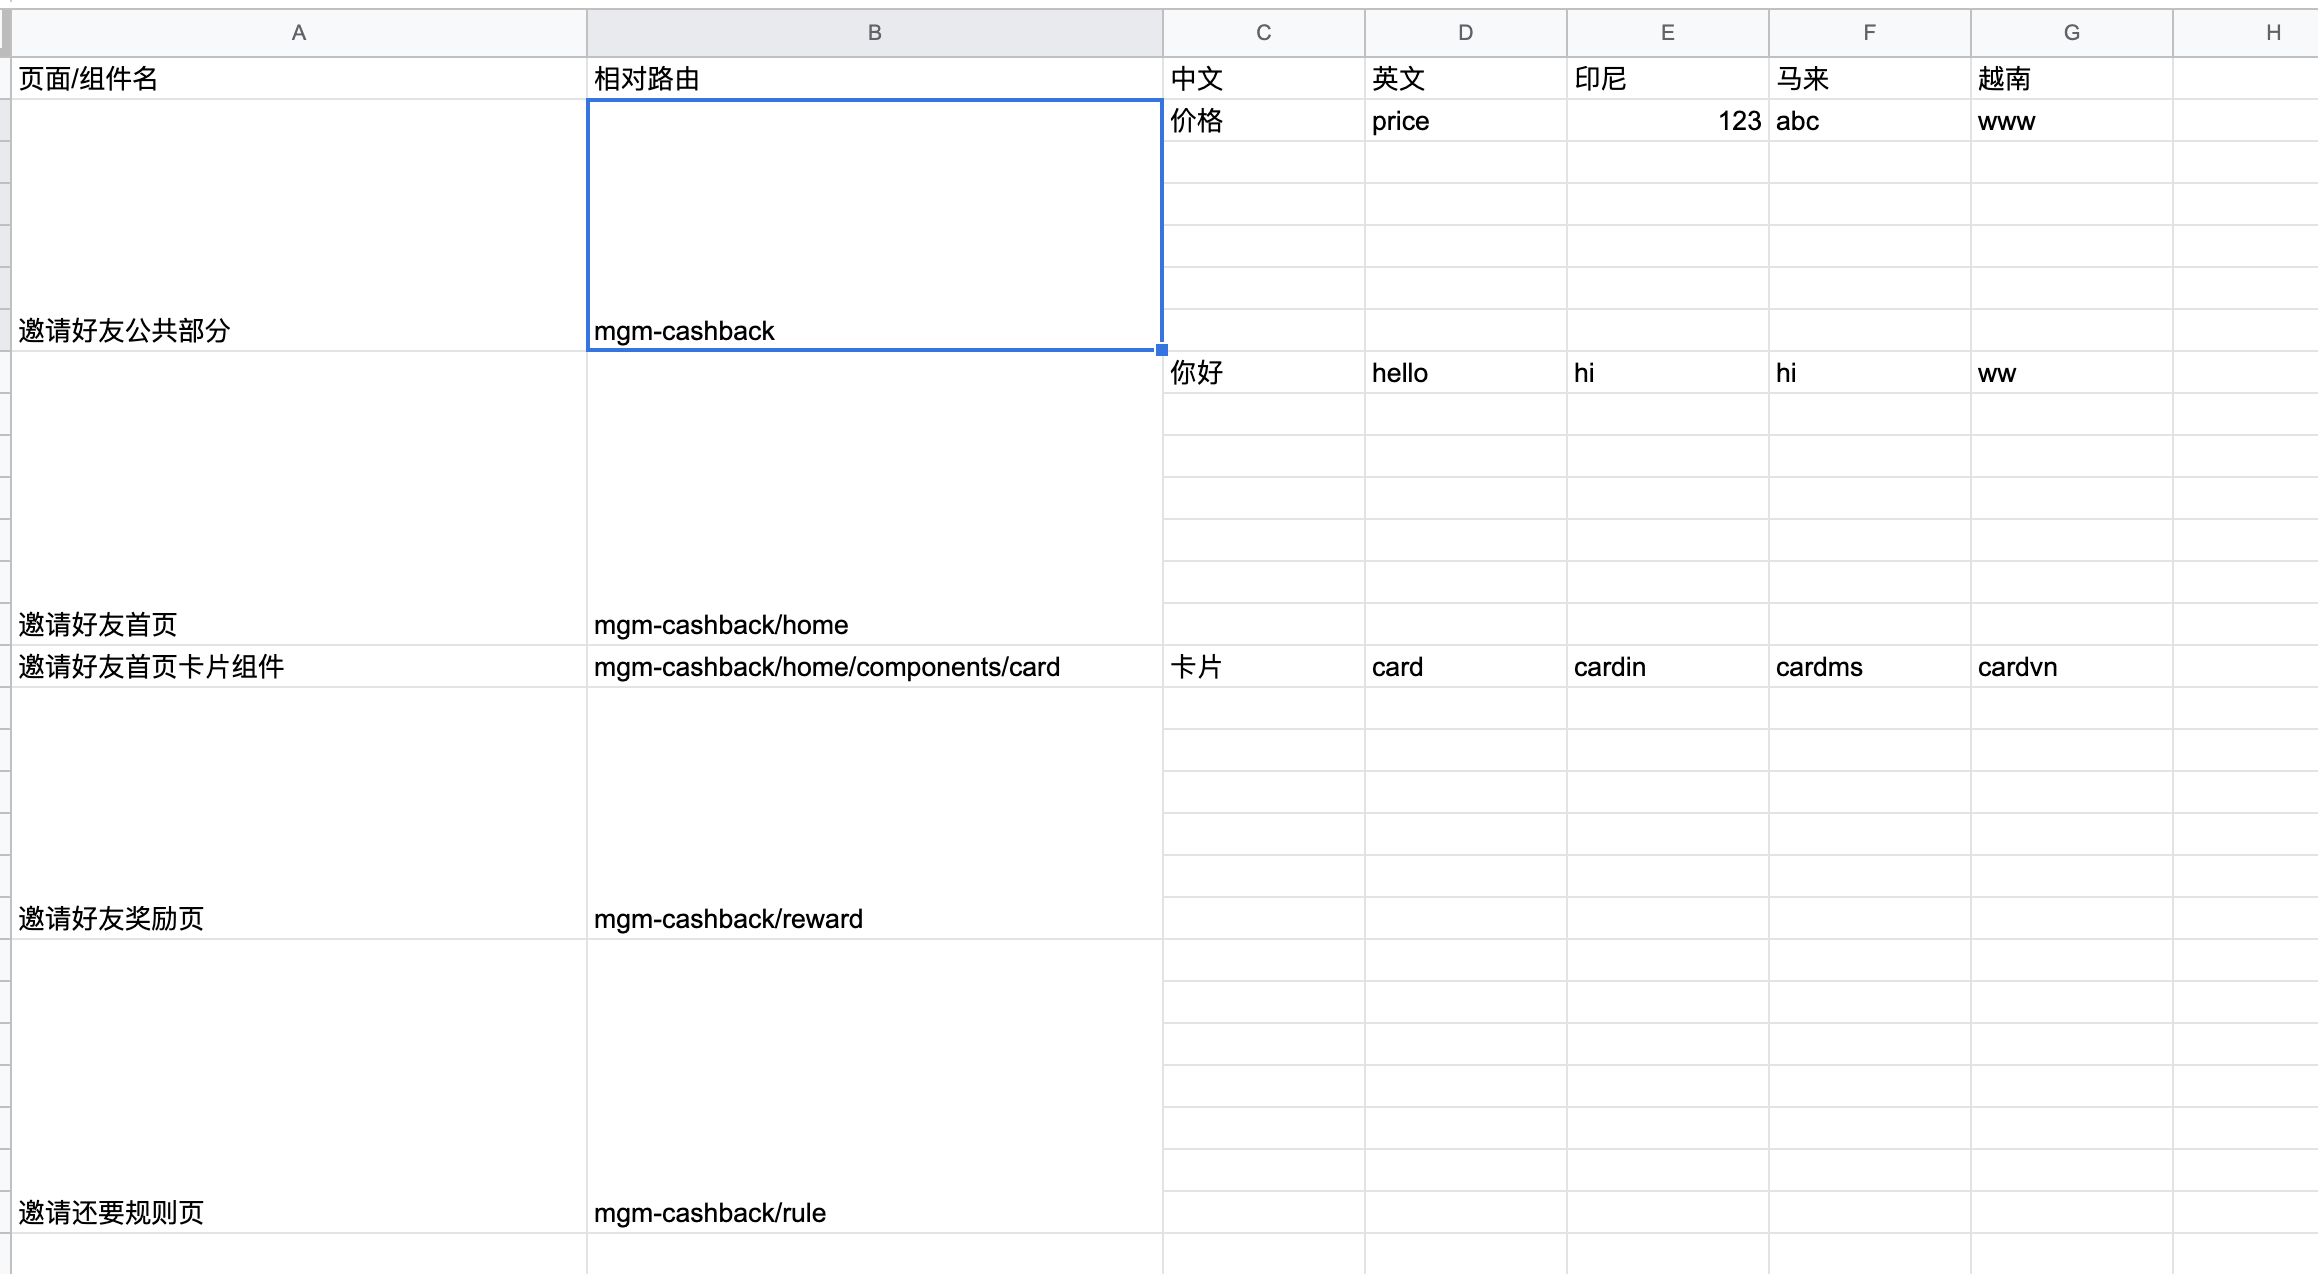
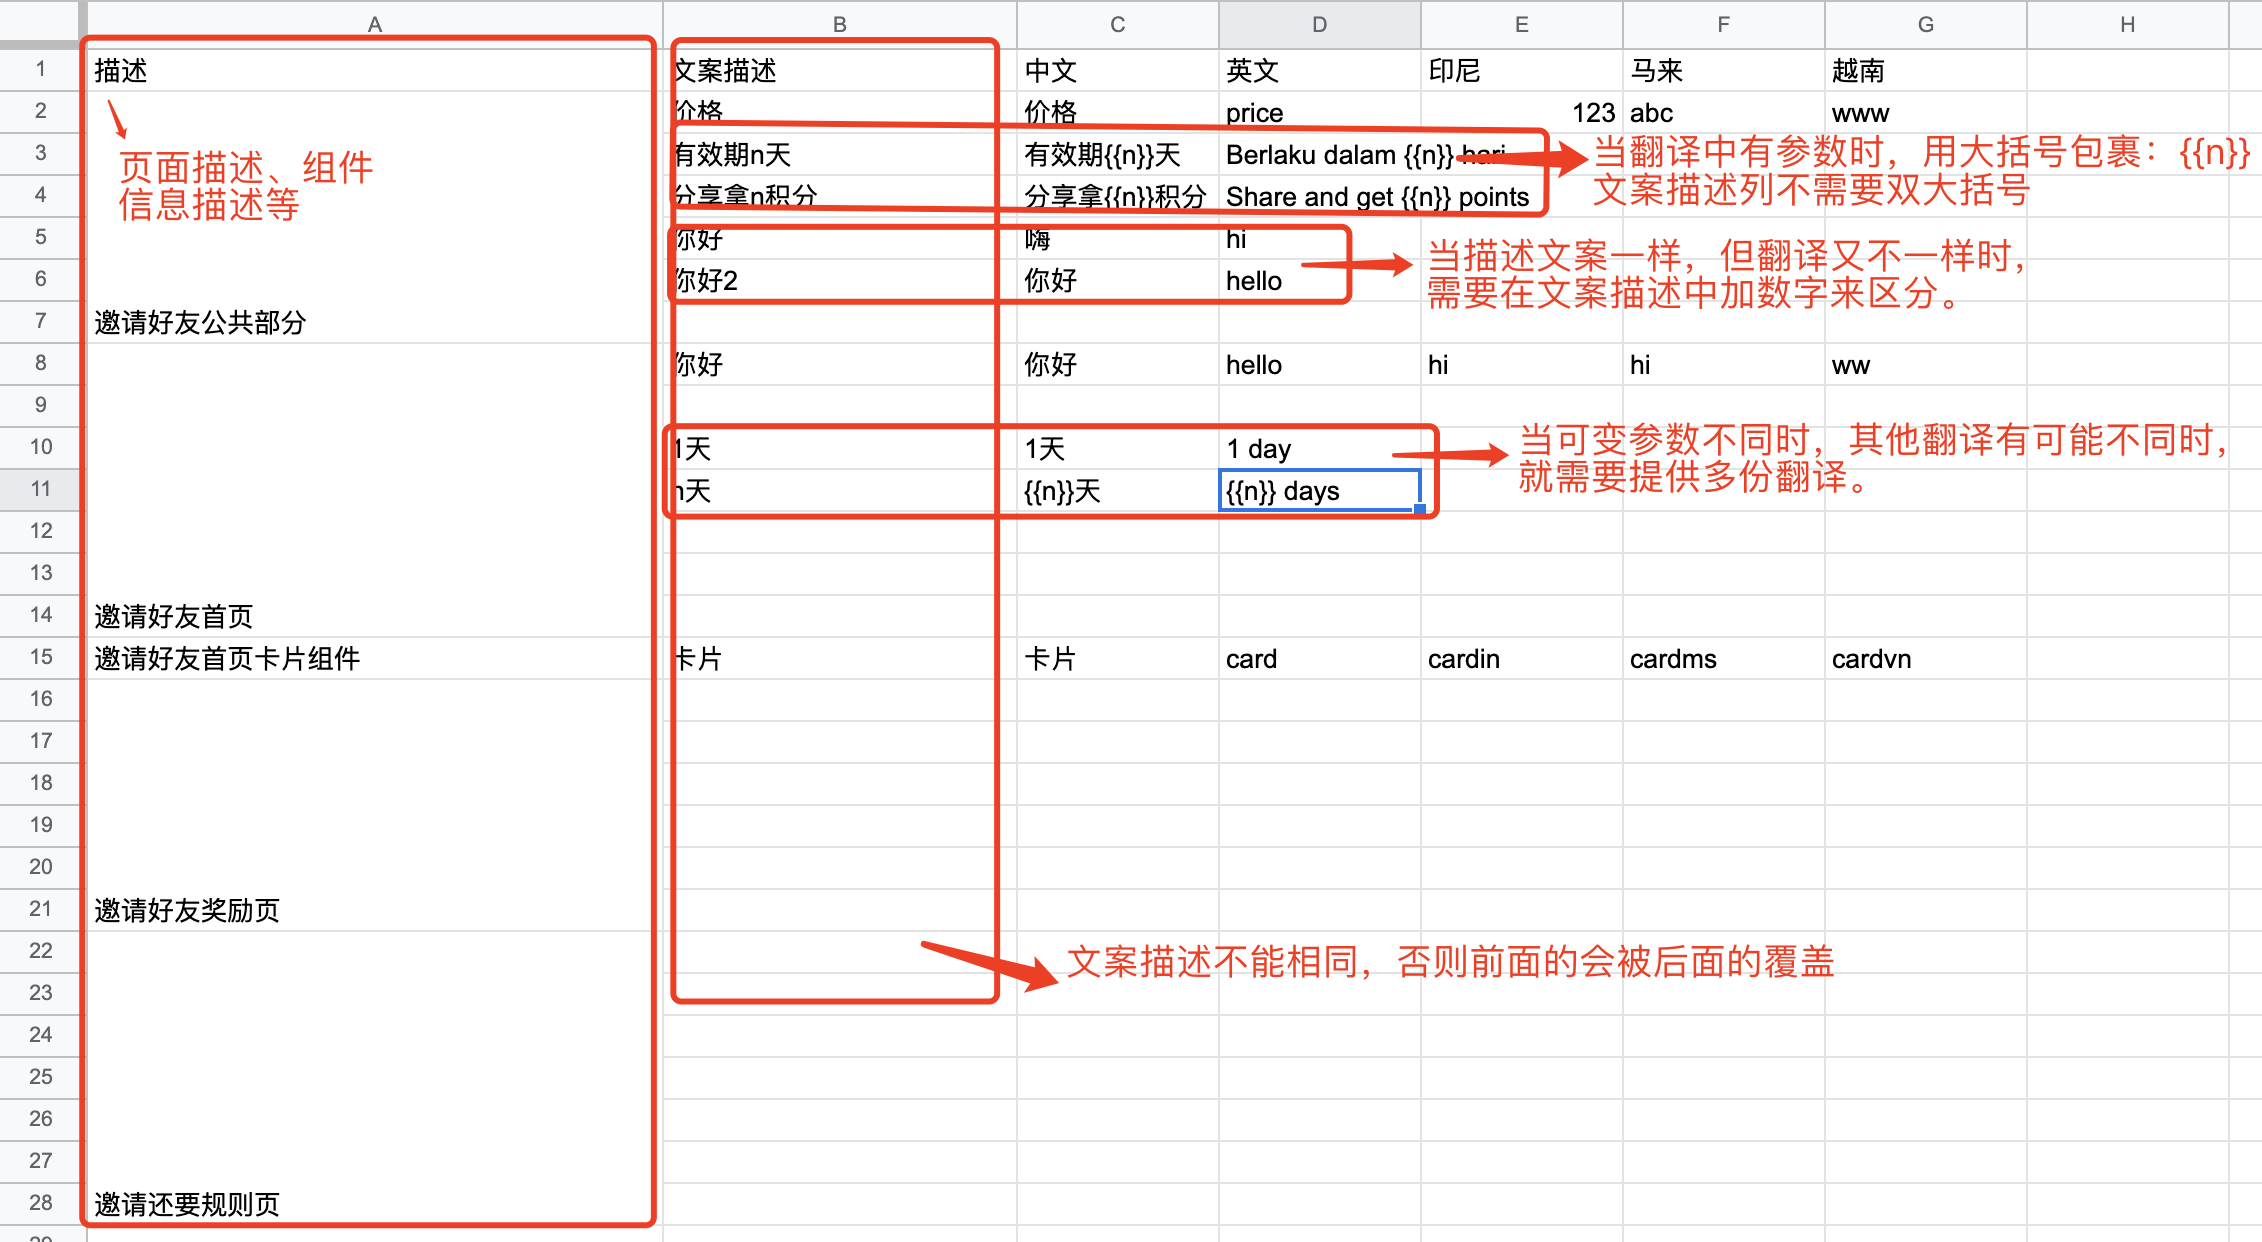
方案更新

diff --git a/Demo/demo-google-sheets-api/README.md b/Demo/demo-google-sheets-api/README.md
@@ -19,16 +19,29 @@
 
 ![google sheets 规范](./images/translate_sheets_standard.png)
 
-- `页面/组件名` 栏由产品编写、开发可以进行调整
-- `相对路由` 由开发者进行编写
+- `描述` 栏由产品编写、开发可以进行调整
+- `文案描述`: 值唯一，否则前面的会被后面的覆盖
 - `...` 后续为各类翻译
+
+主要规则：
+
+1. 第一列为`描述栏`，第二列为`文案描述栏`，后续的列为各类翻译，顺序固定，翻译工具根据列序号进行处理
+   - 中文
+   - 英文
+   - 印尼
+   - 马来
+   - 越南
+   - ...后续新增其他语言
+2. 当翻译中需要参数时，用双大括号包裹： `{{n}}` ，文案描述不需要双大括号包裹
+3. 当描述文案一样，但翻译文案不一样时，需要在文案描述做出区别：比如后面添加数字区分，如上述图中。
+4. 当翻译中需要参数时，且可变参数不同，其他翻译也有不同之处，需要提供多份翻译，比如把不同的单独列出来。
 
 ## nodejs 工具
 
 nodejs 工具使用、处理步骤：
 
 - 全局安转工具
-- 运行命令： `ak-gsct --id=${文档id} --range=${底部工作表名称} --outpath=${页面级绝对路径}`
+- 运行命令： `ak-tc --id=${文档id} --range=${底部工作表名称} --outpath=${页面级绝对路径}`
 - 校验文档格式正确性
   - 错误时，打印错误提示
   - 正确时进行下一步
@@ -38,3 +51,7 @@ nodejs 工具使用、处理步骤：
 核心实现：
 
 ![翻译工具核心实现](./images/translate_sheets_tool_core.png)
+
+## 扩展
+
+- 自动更新到 git，并自动部署
